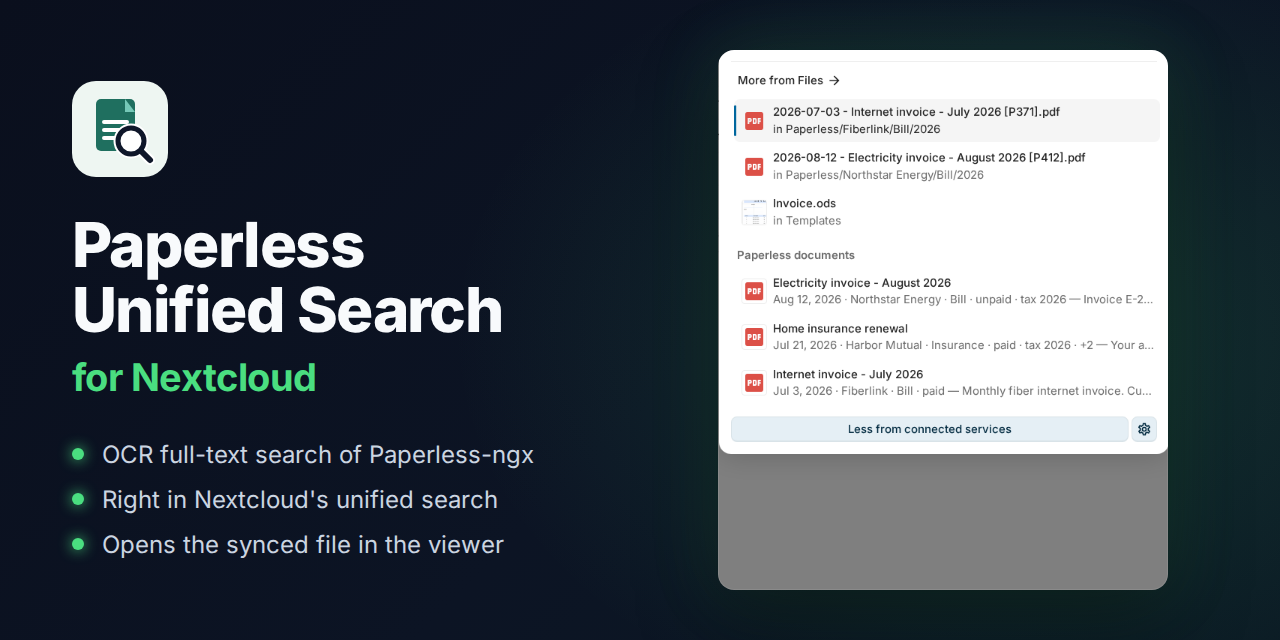
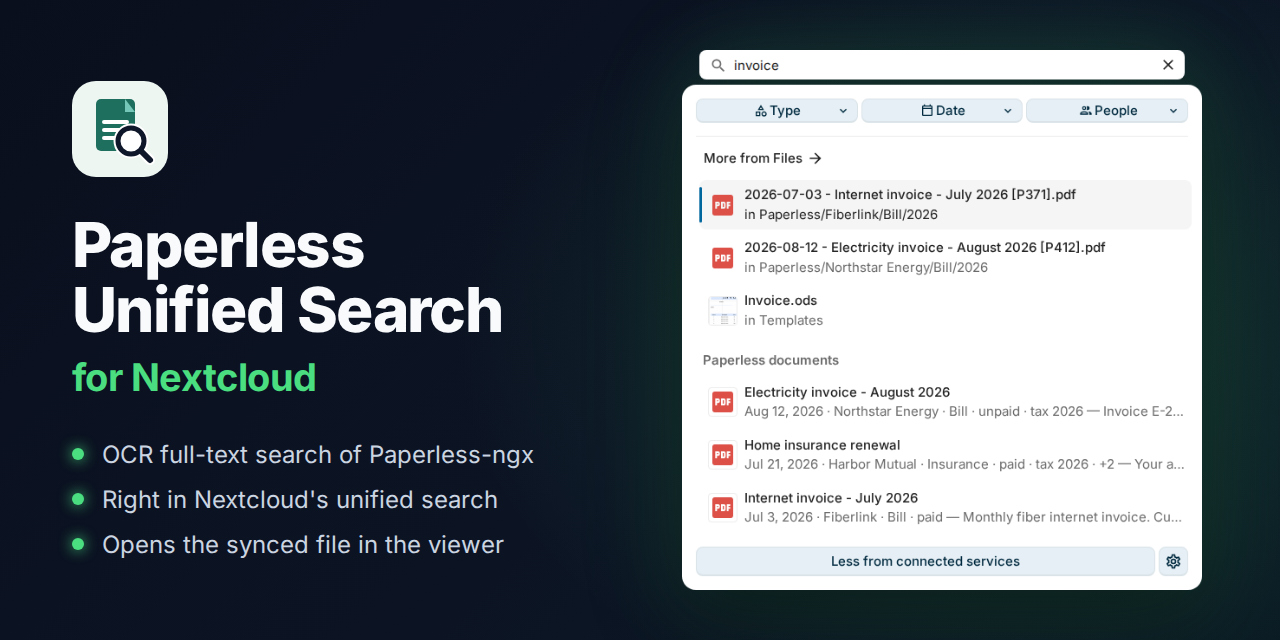
docs: the social preview shows the whole search and nothing of the page behind it (#498)
## Summary

The social preview showed a grey box below the search and cut off the
field with the term. It cut its picture out of
`screenshots/01-unified-search.png` at a place typed in once (`-375px
-68px`), which fitted the search dialog of the Nextcloud of October.
Since Nextcloud moved its search into the top bar (the screenshots of
#476 and #480), that place showed the panel from *More from Files* down
and, below it, 180 pixels of the dimmed page.

Now the preview shows the whole search, the field with its term and the
panel with the results of Paperless, and nothing of the page behind it.
The place of the cut comes from the elements themselves, so the next
change of Nextcloud can't bring the grey box back.

## Changes

- **`tests/e2e/screenshots.mjs`** takes
`screenshots/01-unified-search-alone.png` right after
`01-unified-search.png`. The picture holds the box of the field and the
panel that the field names by `aria-controls`, as a combobox does, at
the place where the page draws them. Everything else of the page is
hidden for it, and it has no background and no shadow of the panel.
- **The step fails** when a part reaches out of the page, where the
picture would cut it off, or when any pixel outside the field and the
panel would show (`tests/e2e/search-picture.mjs`). The bad picture never
gets written.
- **`.github/social-preview.html`** shows that picture whole, at the
largest size that fits (520 × 540), with a shadow and the green glow
[…]

Changed region(s): [[0.5312, 0.0625, 0.9375, 0.9375], [0.8125, 0.4375, 0.8438, 0.4688]]

diff --git a/.github/social-preview.html b/.github/social-preview.html
@@ -38,11 +38,16 @@ h1 { font-size: 62px; font-weight: 800; line-height: 1.04; letter-spacing: -0.02
 ul { margin-top: 40px; list-style: none; display: grid; gap: 16px; }
 li { font-size: 24px; color: #cbd5e1; display: flex; align-items: center; gap: 18px; }
 li::before { content: ""; width: 12px; height: 12px; border-radius: 50%; background: var(--accent); box-shadow: 0 0 14px var(--accent); flex: none; }
-.panel { position: absolute; right: 64px; top: 50%; transform: translateY(-50%); width: 548px; }
-.card { background: #141a26; border: 1px solid rgba(255, 255, 255, 0.09); border-radius: 20px; box-shadow: 0 30px 80px rgba(0, 0, 0, 0.45), 0 0 70px color-mix(in srgb, var(--accent) 16%, transparent); }
+/* The search alone, which scripts/screenshots.sh cuts out of the page where the page draws
+   it: its field with the term and the panel with the results, without the page behind them
+   (tests/e2e/search-picture.mjs). It shows whole, at the largest size that fits, with a
+   shadow around the shapes of the two; tests/js/search-picture.test.mjs fails when this
+   page would cut it or show it in a box of its own. */
+.panel { position: absolute; right: 64px; top: 50px; bottom: 50px; width: 548px; display: flex; align-items: center; justify-content: center; }
+.search { display: block; max-width: 100%; max-height: 100%; filter: drop-shadow(0 30px 40px rgba(0, 0, 0, 0.45)) drop-shadow(0 0 36px color-mix(in srgb, var(--accent) 18%, transparent)); }
 .muted { color: #8b95a7; }
 .mono { font-family: "JetBrains Mono", "Liberation Mono", monospace; }
-.logo { background: #eef6f2; border-radius: 24px; padding: 12px; } .shot { width: 450px; height: 540px; border-radius: 16px; overflow: hidden; margin-left: 50px; background: url('../screenshots/01-unified-search.png') -375px -68px / 1200px 675px no-repeat; }
+.logo { background: #eef6f2; border-radius: 24px; padding: 12px; }
 </style>
 </head>
 <body>
@@ -57,7 +62,7 @@ li::before { content: ""; width: 12px; height: 12px; border-radius: 50%; backgro
   </ul>
 </div>
 <div class="panel">
-  <div class="card shot"></div>
+  <img class="search" src="../screenshots/01-unified-search-alone.png" alt="">
 </div>
 </body>
 </html>

diff --git a/tests/e2e/README.md b/tests/e2e/README.md
@@ -212,7 +212,7 @@ A term that is typed too early finds nothing in Nextcloud 33 and 34, and a perso
 
 ## Screenshots and the visual check
 
-`scripts/screenshots.sh` takes the screenshots in `screenshots/` and the animations of the search and of the set-up in `docs/images/` with the containers of this suite: Nextcloud and the mock under the Compose project `paperless_unified_search_screenshots`, on port `18083`, and `screenshots.mjs` in the image of Playwright. It writes the synthetic documents of the demo as PDF files into the archive account `paperless`, in folders as Paperless Sync names them, and shares them read-only with `jamie`. For the term `invoice`, the mock returns three of them, with the IDs of their files. *Try a search* searches for `invoice` as `e2e-admin`, with whom the archive account has shared only the file of the electricity invoice, for `10-try-a-search.png` and its dark version. For `13-personal-settings.png` and its dark version, `jamie` ticks *Always search my Paperless documents* in the personal settings and unticks it after the picture, so that the other pictures show the search with the switch; a pass of the browser of its own takes them while Paperless Sync lets `jamie` see only the documents with the tags Household and Taxes, which the section names at its top. For `12-date-filter.png` and its dark version, `jamie` narrows the search for `invoice` to the custom range of July 2026 in the date filter of Nextcloud, and the step fails unless *Paperless documents* holds exactly the two documents that the mock dates in July, in the filtered list and not below *Partial matches*, as it would if the app ignored the filter. The animation of the set-up, `setup.gif` and its dark version, removes the settings and goes through the empty form as `e2e-admin`: the URL `http://paperless.lan:8080`, a second name of the mock in `compose.yaml`, the switch for the local network, the token of the mock, which shows as dots, the archive account, **Test connection and save**, and **Try a search** for `invoice` as `jamie`. It starts on the documents of that search, and leaves the settings set up. It runs for 10 seconds and stays below 400 KB, since every frame of an animation holds only the rectangle around what changed (`gif-frames.mjs`, which `tests/js/gif-frames.test.mjs` tests). Each frame has a palette of its own colours, up to 255 of them exactly and more chosen by the quantizer of `gifenc` beside white and 64 neutral grays, so a change in one image changes the colours of its frame and, unless the next image keeps it, of the next frame, which draws those pixels back, but of no other frame and never of the poster, and a pixel that stayed the same keeps its colour. `pngjs` and `gifenc` in `package.json` read the screenshots and write the animations, and `ui.mjs` gives the steps through the search that `flow.mjs` checks in every run of the suite. Then, in the real Paperless-ngx 3 of `compose.paperless.yaml`, which runs beside them, `screenshots.mjs` sets up the account of the search as `docs/configure.md` does: the administrator of the tests adds Alex Admin, who adds the account `nextcloud` with the recommended permissions, the workflow that lets it view each new document, and three correspondents. It takes the dialogs of the account, the workflow, the permissions of all correspondents and the profile of `nextcloud`, `14-paperless-account.png` to `17-paperless-token.png` and their dark versions, at the size of a phone; the profile shows the token `e2e-only-token` in place of the random one of Paperless. The animation, light and dark, starts with the Paperless results of the search for `invoice` in a frame, which is also the picture that the website shows until it plays, and goes on from the archive to the opened file. `scripts/screenshot-media.sh` makes the video beside each animation, `docs/images/search-and-open.mp4`, which the home page of the website plays in its place, and its poster, `search-and-open-poster.webp`, from the first frame in full colour, `search-and-open-poster.png`, that `screenshots.mjs` writes beside the animation and the script removes, so that the poster keeps every colour of the screenshot and changes only with that frame, with ffmpeg in the image of `.github/screenshots/Dockerfile`, and shrinks every PNG with oxipng without changing a pixel; the same pictures make the same bytes in every run. At its end, the script renders the social preview, `.github/social-preview.png`, from `.github/social-preview.html`, which shows a part of `01-unified-search.png` (`scripts/social-preview.sh`).
+`scripts/screenshots.sh` takes the screenshots in `screenshots/` and the animations of the search and of the set-up in `docs/images/` with the containers of this suite: Nextcloud and the mock under the Compose project `paperless_unified_search_screenshots`, on port `18083`, and `screenshots.mjs` in the image of Playwright. It writes the synthetic documents of the demo as PDF files into the archive account `paperless`, in folders as Paperless Sync names them, and shares them read-only with `jamie`. For the term `invoice`, the mock returns three of them, with the IDs of their files. *Try a search* searches for `invoice` as `e2e-admin`, with whom the archive account has shared only the file of the electricity invoice, for `10-try-a-search.png` and its dark version. For `13-personal-settings.png` and its dark version, `jamie` ticks *Always search my Paperless documents* in the personal settings and unticks it after the picture, so that the other pictures show the search with the switch; a pass of the browser of its own takes them while Paperless Sync lets `jamie` see only the documents with the tags Household and Taxes, which the section names at its top. For `12-date-filter.png` and its dark version, `jamie` narrows the search for `invoice` to the custom range of July 2026 in the date filter of Nextcloud, and the step fails unless *Paperless documents* holds exactly the two documents that the mock dates in July, in the filtered list and not below *Partial matches*, as it would if the app ignored the filter. The animation of the set-up, `setup.gif` and its dark version, removes the settings and goes through the empty form as `e2e-admin`: the URL `http://paperless.lan:8080`, a second name of the mock in `compose.yaml`, the switch for the local network, the token of the mock, which shows as dots, the archive account, **Test connection and save**, and **Try a search** for `invoice` as `jamie`. It starts on the documents of that search, and leaves the settings set up. It runs for 10 seconds and stays below 400 KB, since every frame of an animation holds only the rectangle around what changed (`gif-frames.mjs`, which `tests/js/gif-frames.test.mjs` tests). Each frame has a palette of its own colours, up to 255 of them exactly and more chosen by the quantizer of `gifenc` beside white and 64 neutral grays, so a change in one image changes the colours of its frame and, unless the next image keeps it, of the next frame, which draws those pixels back, but of no other frame and never of the poster, and a pixel that stayed the same keeps its colour. `pngjs` and `gifenc` in `package.json` read the screenshots and write the animations, and `ui.mjs` gives the steps through the search that `flow.mjs` checks in every run of the suite. Then, in the real Paperless-ngx 3 of `compose.paperless.yaml`, which runs beside them, `screenshots.mjs` sets up the account of the search as `docs/configure.md` does: the administrator of the tests adds Alex Admin, who adds the account `nextcloud` with the recommended permissions, the workflow that lets it view each new document, and three correspondents. It takes the dialogs of the account, the workflow, the permissions of all correspondents and the profile of `nextcloud`, `14-paperless-account.png` to `17-paperless-token.png` and their dark versions, at the size of a phone; the profile shows the token `e2e-only-token` in place of the random one of Paperless. The animation, light and dark, starts with the Paperless results of the search for `invoice` in a frame, which is also the picture that the website shows until it plays, and goes on from the archive to the opened file. `scripts/screenshot-media.sh` makes the video beside each animation, `docs/images/search-and-open.mp4`, which the home page of the website plays in its place, and its poster, `search-and-open-poster.webp`, from the first frame in full colour, `search-and-open-poster.png`, that `screenshots.mjs` writes beside the animation and the script removes, so that the poster keeps every colour of the screenshot and changes only with that frame, with ffmpeg in the image of `.github/screenshots/Dockerfile`, and shrinks every PNG with oxipng without changing a pixel; the same pictures make the same bytes in every run. At its end, the script renders the social preview, `.github/social-preview.png`, from `.github/social-preview.html` (`scripts/social-preview.sh`), which shows the search alone, `01-unified-search-alone.png`: right after `01-unified-search.png`, `screenshots.mjs` takes the field with the term and the panel of the results, which the field names by `aria-controls`, at the place where the page draws them, with everything else of the page hidden and without a background, and fails when a part reaches out of the page or when a pixel outside the two would show (`search-picture.mjs`, which `tests/js/search-picture.test.mjs` tests, with the page of the preview, which must show that picture whole). A place typed in once showed the dimmed page below the panel after Nextcloud moved its search into the top bar.
 
 Two runs render the same pixels, so that a picture changes only when the app changes what it shows. The clock of every page starts at 9:30 on 9 October 2026 in Berlin (`page.clock`), so the dashboard always greets with *Good morning*; the files and folders of the archive carry the time of 7 October 2026, which their upload sets with `X-OC-MTime` and a `PROPPATCH` of `lastmodified` afterwards, so Files always shows *2 days ago*; the documents are a minute apart and the templates `Invoice.ods` and `Invoice.odt` of each account an hour apart, so the search of Files, which lists the newest first, always lists them in the same order; the history of the problems of the search has fixed times; and the app *User status* is off, whose badge on the avatars would come and go with the moment when the browser tells Nextcloud that the user is online. The users sign in with the time zone of the pages, Berlin, which Nextcloud keeps as theirs, so the times that the server writes, as in *Search problems*, are in the zone of those that the browser writes. The size of every page and its language are fixed as well, and its font, Inter, comes from the files of one version of Google Fonts, as in the social preview: the stylesheet that Google Fonts serves for a family named another cut in one of the runs, which moved the letters by a fraction of a pixel. Chromium draws without the code of a particular processor (`--disable-skia-runtime-opts`), each image decoded and every tile in full before a picture, so a runner of another kind draws the same pixels. The note of the smart picker opens without the clock of the pictures, as the collaboration of Text, with a clock days behind the server's, shows the page's own session as another one in the heading; the keys, not a click, put the cursor at the end of the note, and the step checks that the slash command stands on its own line below the note, and undoes and types it again otherwise. The viewer of PDF files draws a page in slices of 15 milliseconds by the clock of the page, and Chromium draws the letters after the end of a slice a shade lighter or darker at some of their edges than in one go. How far the first slice gets depends on the speed of the runner, so the pictures of the viewer changed from run to run, and with the last frame, while every frame of an animation still shared one palette, the colours of every frame and of the poster. So the clock stands still from the click that opens a file on, while its timers keep running, and the viewer draws the page in one slice: `openInViewer` of `ui.mjs`, which `tests/js/open-in-viewer.test.mjs` tests. Each picture of the viewer and the last frame of each animation then waits until the viewer has drawn the page for the last time, sharper than at first, at a moment that varies from run to run. While an animation types the term, the clock stands still too, so that Nextcloud searches for the whole term alone, after the frame of its last letter, also on a runner that takes the picture of a letter slower than Nextcloud waits for the next key.
 

diff --git a/README.de.md b/README.de.md
@@ -836,7 +836,7 @@ Die Screenshots in `screenshots/`, die Animationen der Suche und der Einrichtung
 bash scripts/screenshots.sh
 ```
 
-Es startet die Docker-Suite unter einem eigenen Projekt mit einer Demo: dem Archiv-Konto `paperless`, dessen synthetische Dokumente nur lesend mit `jamie` geteilt sind, und einem Mock von Paperless, der drei davon für „invoice“ findet. Chromium sucht dann, öffnet einen Treffer, grenzt die Suche mit dem Datumsfilter auf Juli 2026 ein, verlinkt ein Dokument aus dem Smart Picker in einer Notiz von Text, speichert die Einstellungen und probiert darin eine Suche aus, hell und dunkel, auf einem Smartphone und als Animation, die mit ihren Paperless-Treffern in einem Rahmen beginnt. Eine zweite Animation geht vom leeren Formular der Einstellungen bis zur ersten Suche und beginnt damit, wohin das führt. `scripts/screenshot-media.sh` macht dann im Image von `.github/screenshots/Dockerfile` neben jeder Animation das Video, das die Website an ihrer Stelle abspielt, kleiner und anhaltbar, mit seinem ersten Bild, das bis zum Abspielen zu sehen ist, und verkleinert jedes PNG um etwa ein Viertel, ohne ein Pixel zu ändern. Jeder Schritt prüft, was sein Bild zeigt: Die nach Datum eingegrenzte Suche schlägt etwa fehl, wenn ein Paperless-Treffer außerhalb des Juli erscheint oder die Treffer unter *Teilübereinstimmungen* landen. Die Uhr des Browsers steht in jedem Lauf auf demselben Morgen, und die Dateien der Demo wurden zwei Tage davor geändert, also ergeben zwei Läufe dieselben Pixel. Setze `KEEP_SCREENSHOTS=1`, um dich danach in der Demo umzusehen.
+Es startet die Docker-Suite unter einem eigenen Projekt mit einer Demo: dem Archiv-Konto `paperless`, dessen synthetische Dokumente nur lesend mit `jamie` geteilt sind, und einem Mock von Paperless, der drei davon für „invoice“ findet. Chromium sucht dann, öffnet einen Treffer, grenzt die Suche mit dem Datumsfilter auf Juli 2026 ein, verlinkt ein Dokument aus dem Smart Picker in einer Notiz von Text, speichert die Einstellungen und probiert darin eine Suche aus, hell und dunkel, auf einem Smartphone und als Animation, die mit ihren Paperless-Treffern in einem Rahmen beginnt. Eine zweite Animation geht vom leeren Formular der Einstellungen bis zur ersten Suche und beginnt damit, wohin das führt. `scripts/screenshot-media.sh` macht dann im Image von `.github/screenshots/Dockerfile` neben jeder Animation das Video, das die Website an ihrer Stelle abspielt, kleiner und anhaltbar, mit seinem ersten Bild, das bis zum Abspielen zu sehen ist, und verkleinert jedes PNG um etwa ein Viertel, ohne ein Pixel zu ändern. Jeder Schritt prüft, was sein Bild zeigt: Die nach Datum eingegrenzte Suche schlägt etwa fehl, wenn ein Paperless-Treffer außerhalb des Juli erscheint oder die Treffer unter *Teilübereinstimmungen* landen, und das Bild der Suche allein, das Suchfeld mit ihrem Begriff und die Liste ihrer Treffer, das die Social Preview zeigt, schlägt fehl, wenn darin etwas von der Seite dahinter zu sehen wäre. Die Uhr des Browsers steht in jedem Lauf auf demselben Morgen, und die Dateien der Demo wurden zwei Tage davor geändert, also ergeben zwei Läufe dieselben Pixel. Setze `KEEP_SCREENSHOTS=1`, um dich danach in der Demo umzusehen.
 
 Die Animation von [In drei Minuten ausprobieren](#in-drei-minuten-ausprobieren) kommt dagegen aus dem echten Paperless-ngx und Nextcloud der Demo. Während die Demo läuft, meldet sich `bash scripts/screenshots.sh --demo` als `jamie` mit dem Passwort aus `demo/.env` an, sucht nach *invoice*, öffnet die Verlängerung der Hausratversicherung und schreibt nur `screenshots/demo-search-and-open.gif`; die Demo und die anderen Bilder bleiben, wie sie sind. Auch hier ergeben zwei frische Demos dieselben Pixel: Die Uhr beginnt zwei Tage nach der letzten Änderung des Archivs, die Suche startet erst, wenn der ganze Begriff getippt ist, die Benachrichtigungen sind gelesen, und Paperless ordnet die Dokumente allein nach ihrem Text. Der wöchentliche Lauf der Demo nimmt sie ebenfalls auf, vergleicht sie nach ihren Pixeln und hält, wenn sie sich geändert haben, einen Pull Request, *docs: update the animation of the demo*, der sich selbst mergt, sobald jede Prüfung besteht. Der Job, der ihn hält, hat den Schlüssel der Release-App und erreicht nur GitHub, seine API, `github.com` und den Empfänger der Artefakte: Harden-Runner sperrt jeden anderen Host.
 

diff --git a/README.md b/README.md
@@ -836,7 +836,7 @@ The screenshots in `screenshots/`, the animations of the search and of the set-u
 bash scripts/screenshots.sh
 ```
 
-It starts the Docker suite under a project of its own with a demo: the archive account `paperless`, whose synthetic documents are shared read-only with `jamie`, and a Paperless mock that finds three of them for "invoice". Chromium then searches, opens a result, narrows the search to July 2026 with the date filter, links a document from the smart picker in a note of Text, saves the settings and tries a search in them, light and dark, on a phone and as an animation, which starts on its Paperless results in a frame. A second animation goes through the settings from the empty form to the first search, and starts on where that leads. `scripts/screenshot-media.sh` then makes, in the image of `.github/screenshots/Dockerfile`, the video beside each animation, which the website plays in its place, smaller and pausable, with its first frame, which shows until the video plays, and shrinks every PNG by about a quarter without changing a pixel. Each step checks what its picture shows: the search narrowed by date fails, for one, when a Paperless result outside July shows or the results land under *Partial matches*. The clock of the browser stands at the same morning in every run and the files of the demo were changed two days before it, so two runs render the same pixels. Set `KEEP_SCREENSHOTS=1` to look around in the demo afterwards.
+It starts the Docker suite under a project of its own with a demo: the archive account `paperless`, whose synthetic documents are shared read-only with `jamie`, and a Paperless mock that finds three of them for "invoice". Chromium then searches, opens a result, narrows the search to July 2026 with the date filter, links a document from the smart picker in a note of Text, saves the settings and tries a search in them, light and dark, on a phone and as an animation, which starts on its Paperless results in a frame. A second animation goes through the settings from the empty form to the first search, and starts on where that leads. `scripts/screenshot-media.sh` then makes, in the image of `.github/screenshots/Dockerfile`, the video beside each animation, which the website plays in its place, smaller and pausable, with its first frame, which shows until the video plays, and shrinks every PNG by about a quarter without changing a pixel. Each step checks what its picture shows: the search narrowed by date fails, for one, when a Paperless result outside July shows or the results land under *Partial matches*, and the picture of the search alone, the field with its term and the panel of its results that the social preview shows, fails when anything of the page behind them would show in it. The clock of the browser stands at the same morning in every run and the files of the demo were changed two days before it, so two runs render the same pixels. Set `KEEP_SCREENSHOTS=1` to look around in the demo afterwards.
 
 The animation of [Try it in three minutes](#try-it-in-three-minutes) comes from the real Paperless-ngx and Nextcloud of the demo instead. With the demo running, `bash scripts/screenshots.sh --demo` signs in as `jamie` with the password of `demo/.env`, searches for *invoice*, opens the home insurance renewal and writes `screenshots/demo-search-and-open.gif` alone; it leaves the demo and the other pictures as they are. Two fresh demos render the same pixels here too: the clock starts two days after the last change of the archive, the search starts once the whole term is typed, the notifications are read, and Paperless ranks the documents by their text alone. The weekly run of the demo records it as well, compares it by its pixels and, when they changed, keeps one pull request, *docs: update the animation of the demo*, that merges itself once every check passes. The job that keeps it holds the key of the release app and reaches GitHub alone, its API, `github.com` and the receiver of the artifacts: Harden-Runner blocks every other host.
 
